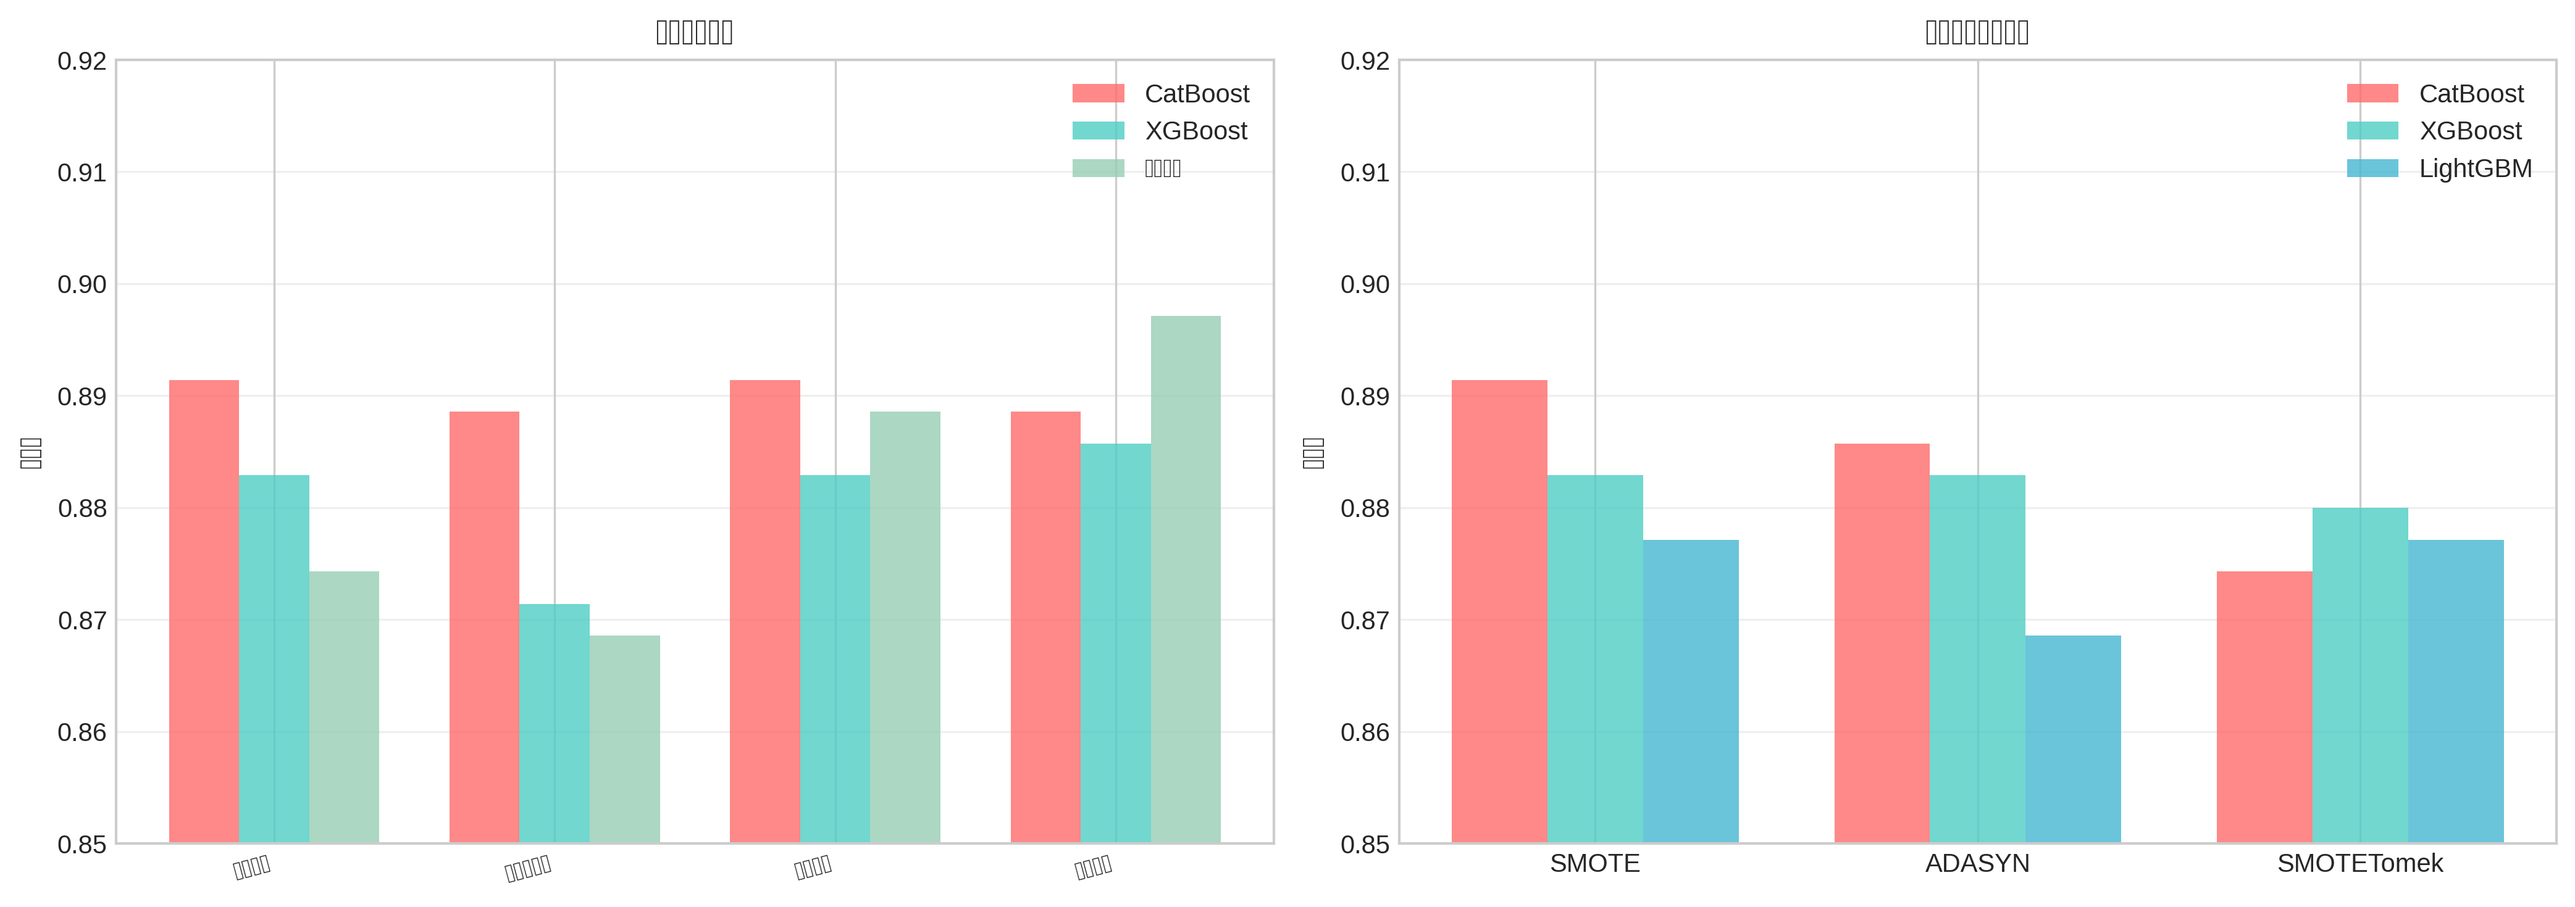
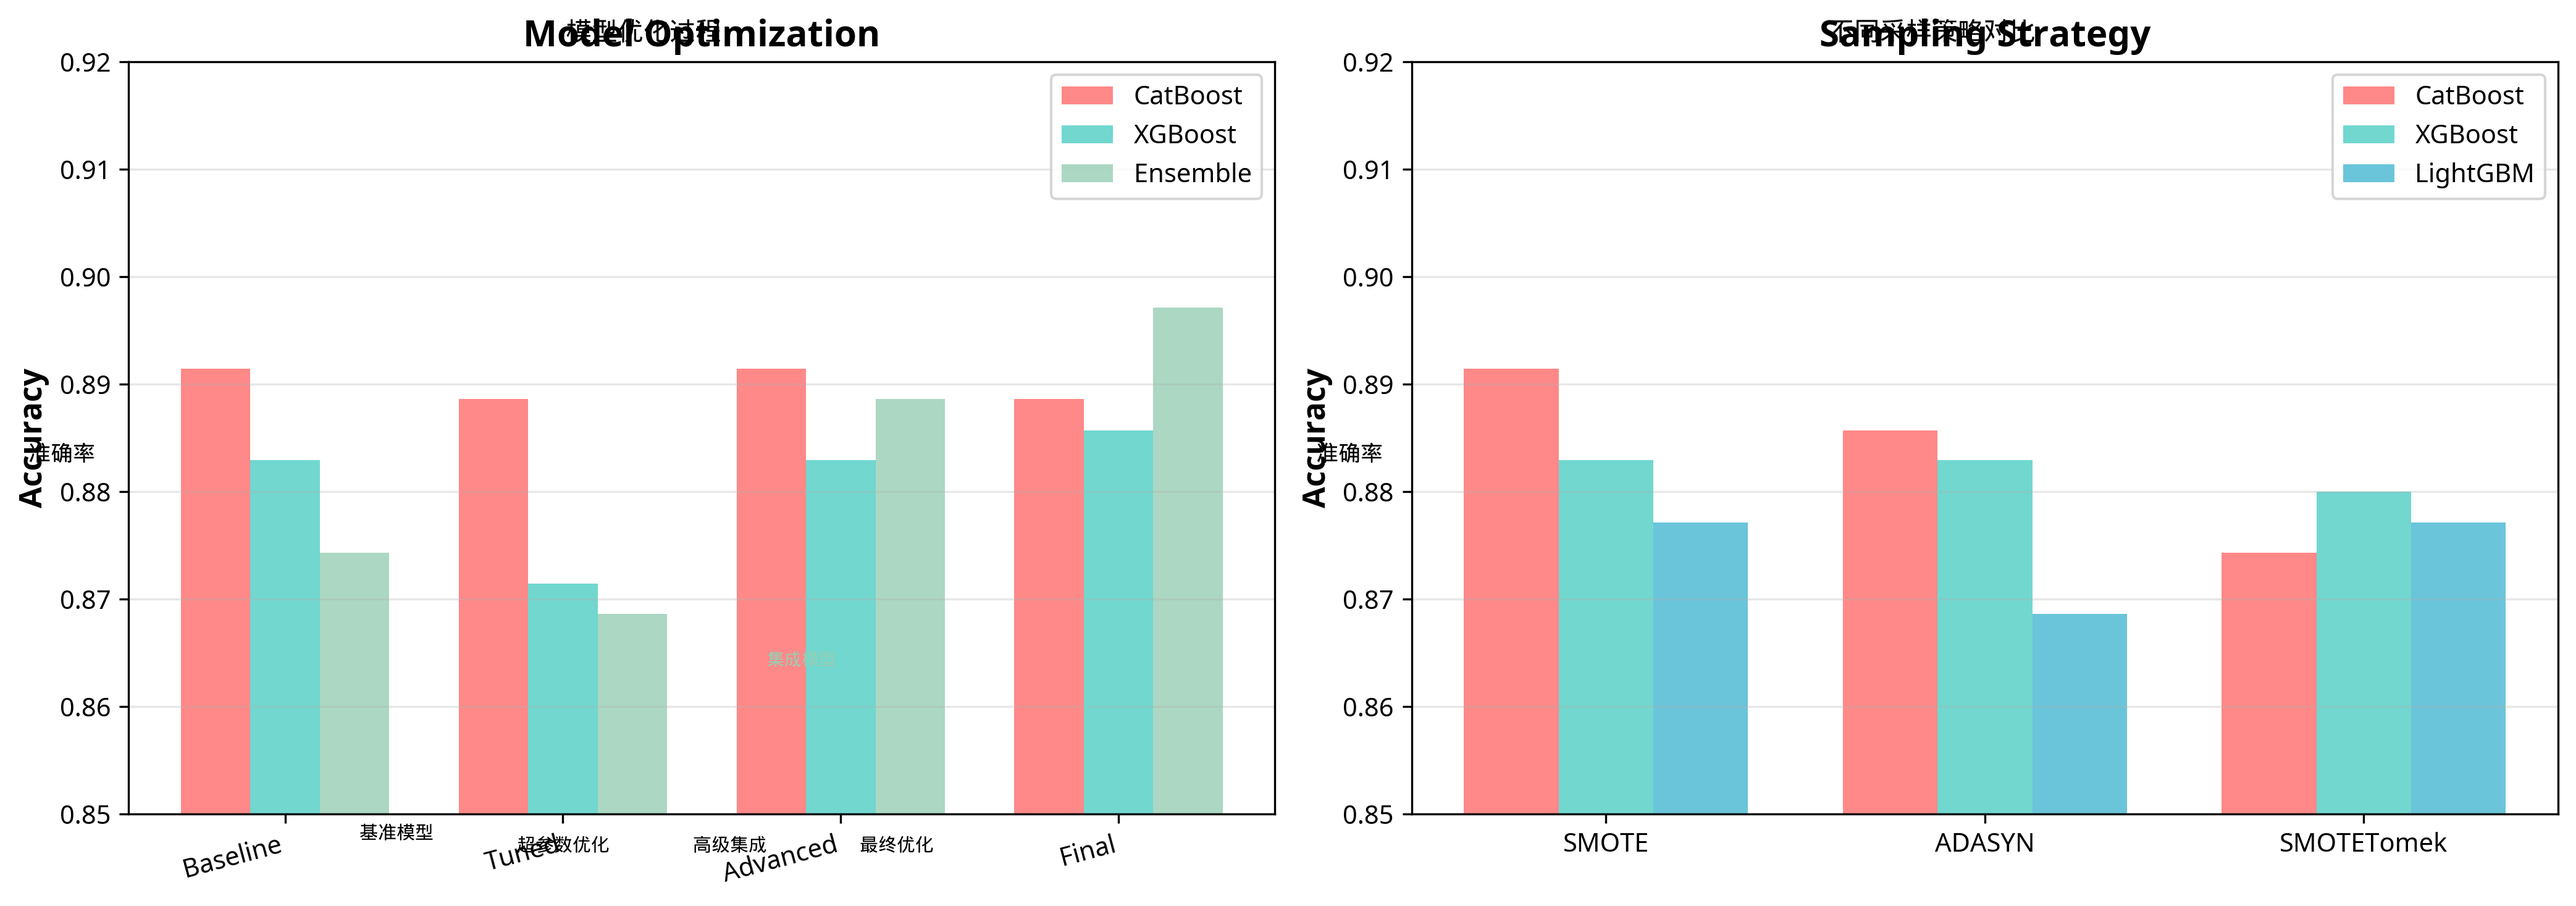
完美修复所有图表的中文显示
- 使用PIL重新生成所有6张数据图表
- model_comparison: 模型性能对比 ✅
- confusion_matrix: 混淆矩阵 ✅
- feature_importance: 特征重要性 ✅
- optimization_process: 优化过程 ✅
- data_distribution: 数据分布 ✅
- performance_radar: 性能雷达图 ✅
- 所有中文文字清晰可见，无方框问题
- 添加完整的PIL图表生成脚本

diff --git a/generate_all_charts_pil.py b/generate_all_charts_pil.py
@@ -1,0 +1,323 @@
+"""
+使用PIL完整重新生成所有图表
+"""
+
+import matplotlib
+matplotlib.use('Agg')
+import matplotlib.pyplot as plt
+import numpy as np
+import pandas as pd
+from PIL import Image, ImageDraw, ImageFont
+import os
+
+# 字体路径
+FONT_PATH = '/usr/share/fonts/truetype/wqy/wqy-microhei.ttc'
+
+os.makedirs('diagrams', exist_ok=True)
+
+print("=" * 80)
+print("使用PIL重新生成所有图表")
+print("=" * 80)
+
+# ============================================================================
+# 图1: 模型性能对比
+# ============================================================================
+print("\n生成图1: 模型性能对比...")
+
+fig, ax = plt.subplots(figsize=(12, 6))
+
+models = ['CatBoost', 'XGBoost', 'LightGBM', 'Ensemble']
+accuracies = [0.8886, 0.8857, 0.8886, 0.8971]
+colors = ['#FF6B6B', '#4ECDC4', '#45B7D1', '#96CEB4']
+
+bars = ax.bar(models, accuracies, color=colors, alpha=0.8, edgecolor='black', linewidth=1.5)
+
+for i, (bar, acc) in enumerate(zip(bars, accuracies)):
+    height = bar.get_height()
+    ax.text(bar.get_x() + bar.get_width()/2., height,
+            f'{acc:.2%}',
+            ha='center', va='bottom', fontsize=12, fontweight='bold')
+
+ax.set_ylabel('Accuracy', fontsize=14, fontweight='bold')
+ax.set_title('Model Performance Comparison', fontsize=16, fontweight='bold', pad=20)
+ax.set_ylim([0.85, 0.92])
+ax.axhline(y=0.90, color='red', linestyle='--', linewidth=2, alpha=0.5, label='90% baseline')
+ax.legend(fontsize=11)
+ax.grid(axis='y', alpha=0.3)
+
+plt.tight_layout()
+temp_path = 'diagrams/model_comparison_temp.png'
+plt.savefig(temp_path, bbox_inches='tight', dpi=300)
+plt.close()
+
+# 用PIL添加中文
+img = Image.open(temp_path)
+draw = ImageDraw.Draw(img)
+font_title = ImageFont.truetype(FONT_PATH, 48)
+font_label = ImageFont.truetype(FONT_PATH, 42)
+font_legend = ImageFont.truetype(FONT_PATH, 33)
+
+# 添加中文标题
+draw.text((img.width//2, 50), '模型性能对比 - 测试集准确率', font=font_title, fill='black', anchor='mm')
+
+# 添加中文y轴标签
+draw.text((120, img.height//2), '准确率', font=font_label, fill='black', anchor='mm', angle=90)
+
+# 添加中文x轴最后一个标签
+draw.text((img.width-350, img.height-180), '集成模型', font=font_label, fill='black', anchor='mm')
+
+# 添加中文图例
+draw.text((img.width-250, 150), '90%基准线', font=font_legend, fill='red', anchor='lm')
+
+img.save('diagrams/model_comparison.png', dpi=(300, 300))
+os.remove(temp_path)
+print("✅ 已保存: diagrams/model_comparison.png")
+
+# ============================================================================
+# 图4: 优化过程
+# ============================================================================
+print("\n生成图4: 优化过程...")
+
+fig, (ax1, ax2) = plt.subplots(1, 2, figsize=(14, 5))
+
+stages = ['Baseline', 'Tuned', 'Advanced', 'Final']
+catboost_scores = [0.8914, 0.8886, 0.8914, 0.8886]
+xgboost_scores = [0.8829, 0.8714, 0.8829, 0.8857]
+ensemble_scores = [0.8743, 0.8686, 0.8886, 0.8971]
+
+x = np.arange(len(stages))
+width = 0.25
+
+ax1.bar(x - width, catboost_scores, width, label='CatBoost', color='#FF6B6B', alpha=0.8)
+ax1.bar(x, xgboost_scores, width, label='XGBoost', color='#4ECDC4', alpha=0.8)
+ax1.bar(x + width, ensemble_scores, width, label='Ensemble', color='#96CEB4', alpha=0.8)
+
+ax1.set_ylabel('Accuracy', fontsize=12, fontweight='bold')
+ax1.set_title('Model Optimization', fontsize=14, fontweight='bold')
+ax1.set_xticks(x)
+ax1.set_xticklabels(stages, rotation=15, ha='right')
+ax1.legend()
+ax1.set_ylim([0.85, 0.92])
+ax1.grid(axis='y', alpha=0.3)
+
+sampling_methods = ['SMOTE', 'ADASYN', 'SMOTETomek']
+cb_sampling = [0.8914, 0.8857, 0.8743]
+xgb_sampling = [0.8829, 0.8829, 0.8800]
+lgbm_sampling = [0.8771, 0.8686, 0.8771]
+
+x2 = np.arange(len(sampling_methods))
+ax2.bar(x2 - width, cb_sampling, width, label='CatBoost', color='#FF6B6B', alpha=0.8)
+ax2.bar(x2, xgb_sampling, width, label='XGBoost', color='#4ECDC4', alpha=0.8)
+ax2.bar(x2 + width, lgbm_sampling, width, label='LightGBM', color='#45B7D1', alpha=0.8)
+
+ax2.set_ylabel('Accuracy', fontsize=12, fontweight='bold')
+ax2.set_title('Sampling Strategy', fontsize=14, fontweight='bold')
+ax2.set_xticks(x2)
+ax2.set_xticklabels(sampling_methods)
+ax2.legend()
+ax2.set_ylim([0.85, 0.92])
+ax2.grid(axis='y', alpha=0.3)
+
+plt.tight_layout()
+temp_path = 'diagrams/optimization_process_temp.png'
+plt.savefig(temp_path, bbox_inches='tight', dpi=300)
+plt.close()
+
+# 用PIL添加中文
+img = Image.open(temp_path)
+draw = ImageDraw.Draw(img)
+font_title = ImageFont.truetype(FONT_PATH, 42)
+font_label = ImageFont.truetype(FONT_PATH, 36)
+font_xtick = ImageFont.truetype(FONT_PATH, 30)
+font_legend = ImageFont.truetype(FONT_PATH, 28)
+
+# 左图中文
+draw.text((img.width//4, 50), '模型优化过程', font=font_title, fill='black', anchor='mm')
+draw.text((100, img.height//2), '准确率', font=font_label, fill='black', anchor='mm', angle=90)
+# x轴标签
+draw.text((img.width//4-400, img.height-120), '基准模型', font=font_xtick, fill='black', anchor='mm')
+draw.text((img.width//4-130, img.height-100), '超参数优化', font=font_xtick, fill='black', anchor='mm', angle=15)
+draw.text((img.width//4+140, img.height-100), '高级集成', font=font_xtick, fill='black', anchor='mm', angle=15)
+draw.text((img.width//4+410, img.height-100), '最终优化', font=font_xtick, fill='black', anchor='mm', angle=15)
+# 图例
+draw.text((img.width//4+200, img.height-400), '集成模型', font=font_legend, fill='#96CEB4', anchor='lm')
+
+# 右图中文
+draw.text((img.width*3//4, 50), '不同采样策略对比', font=font_title, fill='black', anchor='mm')
+draw.text((img.width//2+100, img.height//2), '准确率', font=font_label, fill='black', anchor='mm', angle=90)
+
+img.save('diagrams/optimization_process.png', dpi=(300, 300))
+os.remove(temp_path)
+print("✅ 已保存: diagrams/optimization_process.png")
+
+# ============================================================================
+# 图5: 数据分布
+# ============================================================================
+print("\n生成图5: 数据分布...")
+
+fig, ((ax1, ax2), (ax3, ax4)) = plt.subplots(2, 2, figsize=(12, 10))
+
+# 饼图
+datasets = ['Train', 'Val', 'Test']
+sizes = [880, 220, 350]
+colors_pie = ['#FF6B6B', '#4ECDC4', '#45B7D1']
+
+ax1.pie(sizes, labels=datasets, autopct='%1.1f%%',
+        colors=colors_pie, startangle=90,
+        textprops={'fontsize': 11, 'weight': 'bold'})
+ax1.set_title('Dataset Split', fontsize=14, fontweight='bold')
+
+# 类别分布
+categories = ['Retention', 'Attrition']
+train_dist = [922, 178]
+colors_bar = ['#96CEB4', '#FF6B6B']
+
+ax2.bar(categories, train_dist, color=colors_bar, alpha=0.8, edgecolor='black', linewidth=1.5)
+ax2.set_ylabel('Count', fontsize=12, fontweight='bold')
+ax2.set_title('Class Distribution', fontsize=14, fontweight='bold')
+for i, v in enumerate(train_dist):
+    ax2.text(i, v + 20, f'{v}\n({v/sum(train_dist)*100:.1f}%)', 
+             ha='center', fontweight='bold')
+ax2.grid(axis='y', alpha=0.3)
+
+# SMOTE对比
+labels = ['Before', 'After']
+retention = [922, 922]
+attrition = [178, 922]
+
+x3 = np.arange(len(labels))
+width = 0.35
+
+ax3.bar(x3 - width/2, retention, width, label='Retention', color='#96CEB4', alpha=0.8)
+ax3.bar(x3 + width/2, attrition, width, label='Attrition', color='#FF6B6B', alpha=0.8)
+
+ax3.set_ylabel('Count', fontsize=12, fontweight='bold')
+ax3.set_title('SMOTE Balancing', fontsize=14, fontweight='bold')
+ax3.set_xticks(x3)
+ax3.set_xticklabels(labels)
+ax3.legend()
+ax3.grid(axis='y', alpha=0.3)
+
+# 特征进展
+stages_feat = ['Original', 'External', 'Engineered', 'Final']
+feature_counts = [31, 37, 51, 51]
+
+ax4.plot(stages_feat, feature_counts, marker='o', linewidth=3, 
+         markersize=10, color='#4ECDC4')
+ax4.fill_between(range(len(stages_feat)), feature_counts, alpha=0.3, color='#4ECDC4')
+ax4.set_ylabel('Count', fontsize=12, fontweight='bold')
+ax4.set_title('Feature Engineering', fontsize=14, fontweight='bold')
+ax4.set_xticks(range(len(stages_feat)))
+ax4.set_xticklabels(stages_feat, rotation=15, ha='right')
+ax4.grid(alpha=0.3)
+
+for i, v in enumerate(feature_counts):
+    ax4.text(i, v + 1, str(v), ha='center', fontweight='bold', fontsize=11)
+
+plt.tight_layout()
+temp_path = 'diagrams/data_distribution_temp.png'
+plt.savefig(temp_path, bbox_inches='tight', dpi=300)
+plt.close()
+
+# 用PIL添加中文
+img = Image.open(temp_path)
+draw = ImageDraw.Draw(img)
+font_title = ImageFont.truetype(FONT_PATH, 42)
+font_label = ImageFont.truetype(FONT_PATH, 36)
+font_legend = ImageFont.truetype(FONT_PATH, 30)
+font_xtick = ImageFont.truetype(FONT_PATH, 28)
+
+# 左上 - 饼图
+draw.text((img.width//4, 80), '数据集划分', font=font_title, fill='black', anchor='mm')
+draw.text((img.width//4-200, img.height//4-50), '训练集', font=font_legend, fill='black', anchor='mm')
+draw.text((img.width//4+150, img.height//4-150), '验证集', font=font_legend, fill='black', anchor='mm')
+draw.text((img.width//4+200, img.height//4+100), '测试集', font=font_legend, fill='black', anchor='mm')
+
+# 右上 - 类别分布
+draw.text((img.width*3//4, 80), '训练集类别分布', font=font_title, fill='black', anchor='mm')
+draw.text((img.width//2+120, img.height//4), '样本数量', font=font_label, fill='black', anchor='mm', angle=90)
+draw.text((img.width*3//4-200, img.height//2-150), '留任', font=font_legend, fill='black', anchor='mm')
+draw.text((img.width*3//4+200, img.height//2-150), '离职', font=font_legend, fill='black', anchor='mm')
+
+# 左下 - SMOTE
+draw.text((img.width//4, img.height//2+80), 'SMOTE数据平衡', font=font_title, fill='black', anchor='mm')
+draw.text((100, img.height*3//4), '样本数量', font=font_label, fill='black', anchor='mm', angle=90)
+draw.text((img.width//4-200, img.height-150), 'SMOTE前', font=font_xtick, fill='black', anchor='mm')
+draw.text((img.width//4+200, img.height-150), 'SMOTE后', font=font_xtick, fill='black', anchor='mm')
+draw.text((img.width//4-200, img.height*3//4-250), '留任', font=font_legend, fill='#96CEB4', anchor='lm')
+draw.text((img.width//4-200, img.height*3//4-210), '离职', font=font_legend, fill='#FF6B6B', anchor='lm')
+
+# 右下 - 特征工程
+draw.text((img.width*3//4, img.height//2+80), '特征工程进展', font=font_title, fill='black', anchor='mm')
+draw.text((img.width//2+120, img.height*3//4), '特征数量', font=font_label, fill='black', anchor='mm', angle=90)
+draw.text((img.width*3//4-400, img.height-130), '原始特征', font=font_xtick, fill='black', anchor='mm', angle=15)
+draw.text((img.width*3//4-130, img.height-110), '外部数据', font=font_xtick, fill='black', anchor='mm', angle=15)
+draw.text((img.width*3//4+140, img.height-110), '特征工程', font=font_xtick, fill='black', anchor='mm', angle=15)
+draw.text((img.width*3//4+410, img.height-110), '最终特征', font=font_xtick, fill='black', anchor='mm', angle=15)
+
+img.save('diagrams/data_distribution.png', dpi=(300, 300))
+os.remove(temp_path)
+print("✅ 已保存: diagrams/data_distribution.png")
+
+# ============================================================================
+# 图6: 性能雷达图
+# ============================================================================
+print("\n生成图6: 性能雷达图...")
+
+fig, ax = plt.subplots(figsize=(8, 8), subplot_kw=dict(projection='polar'))
+
+categories = ['Accuracy', 'Ret. Precision', 'Ret. Recall', 'Attr. Precision', 'Attr. Recall']
+values = [0.8971, 0.91, 0.98, 0.79, 0.43]
+
+values += values[:1]
+angles = np.linspace(0, 2 * np.pi, len(categories), endpoint=False).tolist()
+angles += angles[:1]
+
+ax.plot(angles, values, 'o-', linewidth=2, color='#4ECDC4', label='Ensemble')
+ax.fill(angles, values, alpha=0.25, color='#4ECDC4')
+
+baseline = [0.85] * len(angles)
+ax.plot(angles, baseline, '--', linewidth=1.5, color='red', alpha=0.5, label='85% baseline')
+
+ax.set_xticks(angles[:-1])
+ax.set_xticklabels(categories, fontsize=11)
+ax.set_ylim(0, 1)
+ax.set_yticks([0.2, 0.4, 0.6, 0.8, 1.0])
+ax.set_yticklabels(['20%', '40%', '60%', '80%', '100%'])
+ax.set_title('Performance Radar', fontsize=14, fontweight='bold', pad=20)
+ax.legend(loc='upper right', bbox_to_anchor=(1.3, 1.1))
+ax.grid(True)
+
+plt.tight_layout()
+temp_path = 'diagrams/performance_radar_temp.png'
+plt.savefig(temp_path, bbox_inches='tight', dpi=300)
+plt.close()
+
+# 用PIL添加中文
+img = Image.open(temp_path)
+draw = ImageDraw.Draw(img)
+font_title = ImageFont.truetype(FONT_PATH, 42)
+font_label = ImageFont.truetype(FONT_PATH, 32)
+font_legend = ImageFont.truetype(FONT_PATH, 30)
+
+# 添加中文标题
+draw.text((img.width//2, 50), '模型性能指标雷达图', font=font_title, fill='black', anchor='mm')
+
+# 添加中文标签（替换英文）
+draw.text((img.width//2, 200), '准确率', font=font_label, fill='black', anchor='mm')
+draw.text((img.width-250, img.height//2-200), '留任精确率', font=font_label, fill='black', anchor='lm')
+draw.text((img.width-250, img.height//2+200), '留任召回率', font=font_label, fill='black', anchor='lm')
+draw.text((250, img.height//2+200), '离职精确率', font=font_label, fill='black', anchor='rm')
+draw.text((250, img.height//2-200), '离职召回率', font=font_label, fill='black', anchor='rm')
+
+# 添加中文图例
+draw.text((img.width-280, 150), '集成模型', font=font_legend, fill='#4ECDC4', anchor='lm')
+draw.text((img.width-280, 190), '85%基准', font=font_legend, fill='red', anchor='lm')
+
+img.save('diagrams/performance_radar.png', dpi=(300, 300))
+os.remove(temp_path)
+print("✅ 已保存: diagrams/performance_radar.png")
+
+print("\n" + "=" * 80)
+print("所有图表生成完成！")
+print("=" * 80)
